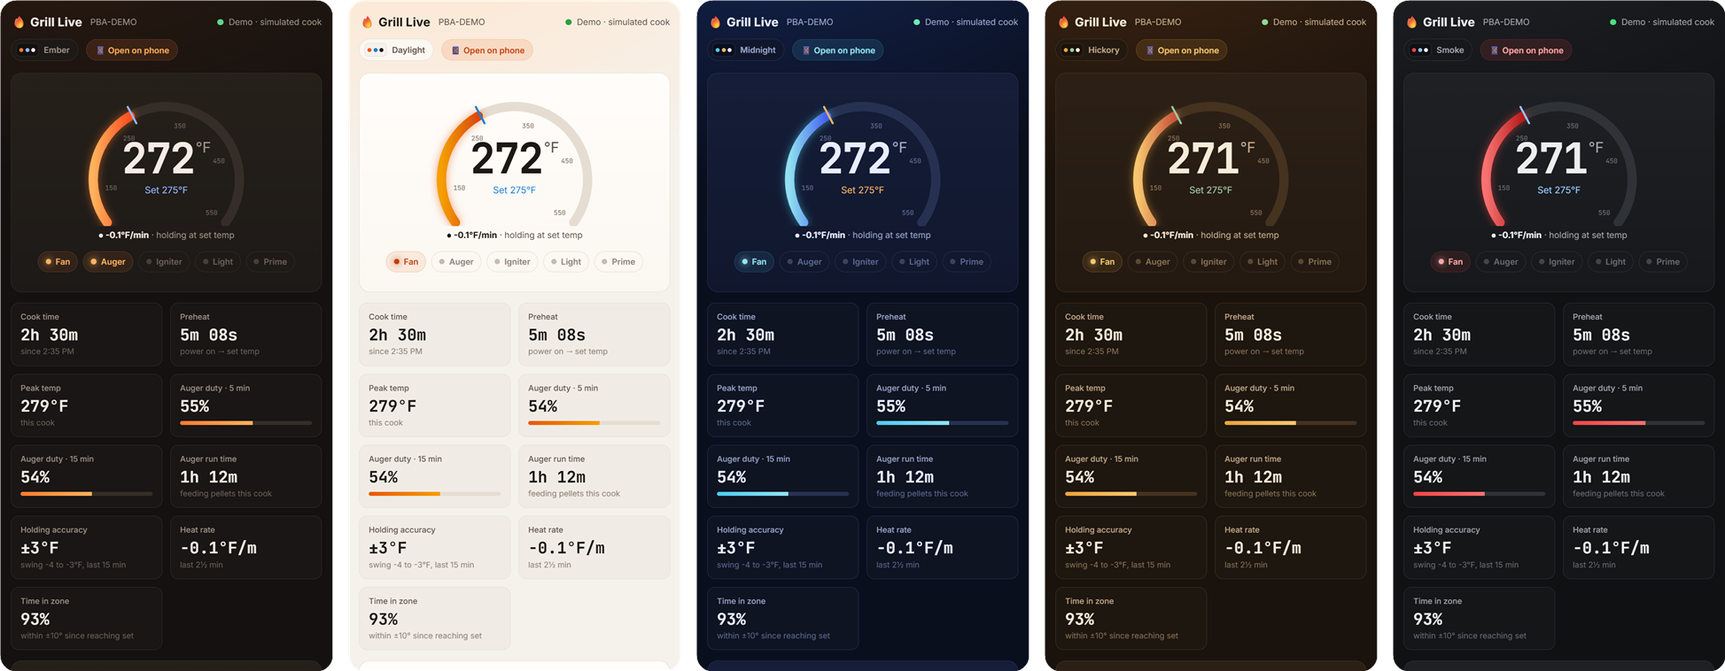
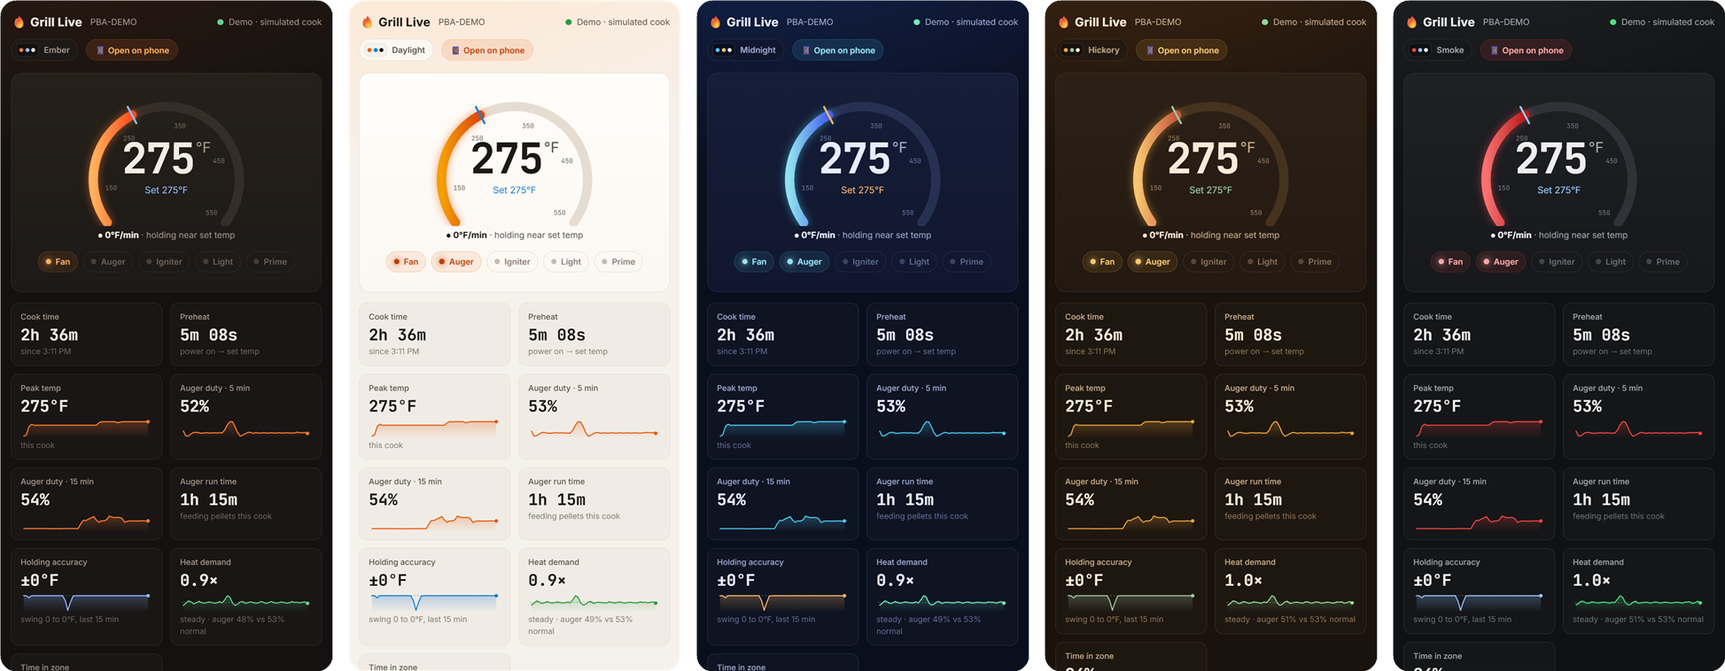
Heat demand, sparklines and an honest temperature reading
- Heat demand card: auger effort against its normal pace at the set temp, so heat
  loss (lid, cold food, wind) shows before the temperature does
- The grill reports exactly its set temp while holding nearby; the gauge now says
  "holding near set temp" and the demo grill behaves the same way
- Sparklines on auger duty, heat demand, holding accuracy, peak temp, burn rate,
  probes, response time and memory; two-line feeding vs cycle on auger rhythm
- README: new features, why the reading sits on the set point, fresh screenshots

diff --git a/index.html b/index.html
@@ -97,6 +97,8 @@ header .sub{color:var(--dim);font-size:13px}
 .tile .h{color:var(--faint);font-size:12px;margin-top:2px}
 .bar{height:6px;background:var(--line);border-radius:4px;margin-top:8px;overflow:hidden}
 .bar>div{height:100%;background:linear-gradient(90deg,var(--ember),var(--ember2));width:0;transition:width .6s}
+.spark{display:block;width:100%;height:28px;margin-top:6px;overflow:visible}
+.probe .spark{height:32px;margin:8px 0 4px}
 .right{display:flex;flex-direction:column;gap:12px}
 .errors{display:none;background:rgba(var(--bad-rgb),.1);border:1px solid var(--bad-line);color:var(--bad-text);border-radius:12px;padding:10px 14px;font-weight:600}
 .chart-card{margin-top:16px}
@@ -185,12 +187,12 @@ header .sub{color:var(--dim);font-size:13px}
       <div class="tiles">
         <div class="tile"><div class="k">Cook time</div><div class="v" id="t-cook">--</div><div class="h" id="t-cook-h">since power on</div></div>
         <div class="tile"><div class="k">Preheat</div><div class="v" id="t-pre">--</div><div class="h" id="t-pre-h">power on → set temp</div></div>
-        <div class="tile"><div class="k">Peak temp</div><div class="v" id="t-peak">--</div><div class="h">this cook</div></div>
-        <div class="tile"><div class="k">Auger duty · 5 min</div><div class="v" id="t-d5">--</div><div class="bar"><div id="b-d5"></div></div></div>
-        <div class="tile"><div class="k">Auger duty · 15 min</div><div class="v" id="t-d15">--</div><div class="bar"><div id="b-d15"></div></div></div>
+        <div class="tile"><div class="k">Peak temp</div><div class="v" id="t-peak">--</div><svg class="spark" id="s-peak"></svg><div class="h">this cook</div></div>
+        <div class="tile"><div class="k">Auger duty · 5 min</div><div class="v" id="t-d5">--</div><svg class="spark" id="s-d5"></svg></div>
+        <div class="tile"><div class="k">Auger duty · 15 min</div><div class="v" id="t-d15">--</div><svg class="spark" id="s-d15"></svg></div>
         <div class="tile"><div class="k">Auger run time</div><div class="v" id="t-aon">--</div><div class="h">feeding pellets this cook</div></div>
-        <div class="tile"><div class="k">Holding accuracy</div><div class="v" id="t-hold">--</div><div class="h" id="t-hold-h">avg off set temp, last 15 min</div></div>
-        <div class="tile"><div class="k">Heat rate</div><div class="v" id="t-rate">--</div><div class="h">last 2½ min</div></div>
+        <div class="tile"><div class="k">Holding accuracy</div><div class="v" id="t-hold">--</div><svg class="spark" id="s-hold"></svg><div class="h" id="t-hold-h">avg off set temp, last 15 min</div></div>
+        <div class="tile"><div class="k">Heat demand</div><div class="v" id="t-dem">--</div><svg class="spark" id="s-dem"></svg><div class="h" id="t-dem-h">learning your grill's normal pace</div></div>
         <div class="tile"><div class="k">Time in zone</div><div class="v" id="t-zone">--</div><div class="h">within ±10° since reaching set</div></div>
       </div>
     </div>
@@ -221,9 +223,9 @@ header .sub{color:var(--dim);font-size:13px}
       <div class="tiles">
         <div class="tile"><div class="k">Hopper left</div><div class="v" id="h-left">--</div><div class="bar"><div id="b-hop"></div></div><div class="h" id="h-left-h">tap Filled hopper</div></div>
         <div class="tile"><div class="k">Runs out in</div><div class="v" id="h-empty">--</div><div class="h" id="h-empty-h">at the current burn</div></div>
-        <div class="tile"><div class="k">Burn rate</div><div class="v" id="p-rate">--</div><div class="h">lb per hour, last 15 min</div></div>
+        <div class="tile"><div class="k">Burn rate</div><div class="v" id="p-rate">--</div><svg class="spark" id="s-rate"></svg><div class="h">lb per hour, last 15 min</div></div>
         <div class="tile"><div class="k">Pellets this cook</div><div class="v" id="p-cook">--</div><div class="h" id="p-cook-h">estimate</div></div>
-        <div class="tile"><div class="k">Auger rhythm</div><div class="v" id="r-rh">--</div><div class="h" id="r-rh-h">feed length / feed every</div></div>
+        <div class="tile"><div class="k">Auger rhythm</div><div class="v" id="r-rh">--</div><svg class="spark" id="s-rh"></svg><div class="h" id="r-rh-h">feed length / feed every</div></div>
         <div class="tile"><div class="k">Lid opens</div><div class="v" id="l-count">--</div><div class="h" id="l-count-h">detected from temp drops</div></div>
       </div>
     </div>
@@ -231,9 +233,9 @@ header .sub{color:var(--dim);font-size:13px}
       <div class="sec-head"><h2>Nerd stats</h2></div>
       <div class="tiles">
         <div class="tile"><div class="k">Wi-Fi signal</div><div class="v"><span id="n-rssi">--</span> <svg id="n-bars" width="22" height="16" viewBox="0 0 22 16"></svg></div><div class="h" id="n-rssi-h">scans every 10 min</div></div>
-        <div class="tile"><div class="k">Response time</div><div class="v" id="n-rtt">--</div><div class="h" id="n-rtt-h">grill → this PC</div></div>
+        <div class="tile"><div class="k">Response time</div><div class="v" id="n-rtt">--</div><svg class="spark" id="s-rtt"></svg><div class="h" id="n-rtt-h">grill → this PC</div></div>
         <div class="tile"><div class="k">Link reliability</div><div class="v" id="n-rel">--</div><div class="h" id="n-rel-h">polls answered</div></div>
-        <div class="tile"><div class="k">Free memory</div><div class="v" id="n-ram">--</div><div class="h" id="n-ram-h">ESP32 RAM</div></div>
+        <div class="tile"><div class="k">Free memory</div><div class="v" id="n-ram">--</div><svg class="spark" id="s-ram"></svg><div class="h" id="n-ram-h">ESP32 RAM</div></div>
         <div class="tile"><div class="k">Readings this cook</div><div class="v" id="n-reads">--</div><div class="h">status refreshes every 4 s</div></div>
         <div class="tile"><div class="k">Module uptime</div><div class="v" id="t-up">--</div><div class="h">Wi-Fi board boots with the grill</div></div>
       </div>
@@ -325,6 +327,106 @@ function drawChart(){
   el.innerHTML = svg;
 }
 
+let IX = null;
+function indexHist(){
+  const n = hist.length;
+  if(IX && IX.n === n) return IX;
+  const T = new Float64Array(n), PA = new Float64Array(n + 1), PS = new Float64Array(n + 1);
+  for(let i = 0; i < n; i++){
+    T[i] = hist[i].t;
+    PA[i + 1] = PA[i] + (hist[i].auger ? 1 : 0);
+    const dt = i + 1 < n ? hist[i + 1].t - hist[i].t : 0;
+    PS[i + 1] = PS[i] + (hist[i].auger && dt < 15 ? dt : 0);
+  }
+  return IX = {n, T, PA, PS};
+}
+function lowerBound(T, t){ let a = 0, b = T.length; while(a < b){ const m = (a + b) >> 1; if(T[m] < t) a = m + 1; else b = m; } return a; }
+function dutyAt(t0, t1){ const i0 = lowerBound(IX.T, t0), i1 = lowerBound(IX.T, t1 + 0.001); return i1 - i0 >= 5 ? (IX.PA[i1] - IX.PA[i0]) / (i1 - i0) : null; }
+function meanAt(t0, t1, f){
+  const i0 = lowerBound(IX.T, t0), i1 = lowerBound(IX.T, t1 + 0.001);
+  let sum = 0, n = 0;
+  for(let i = i0; i < i1; i++){ const v = f(hist[i]); if(v != null){ sum += v; n++; } }
+  return n ? sum / n : null;
+}
+const augerSecondsBy = t => IX.PS[lowerBound(IX.T, t + 0.001)];
+function sampleSeries(span, fn, N = 48){
+  const now = state.now, start = Math.max(now - span, hist[0].t), step = (now - start) / N, out = [];
+  for(let k = 0; k <= N; k++){ const t = start + step * k; out.push([t, fn(t, step)]); }
+  return out;
+}
+function spark(id, pts, o = {}){
+  const el = $(id); if(!el) return;
+  const W = el.clientWidth, H = el.clientHeight, ok = pts.filter(p => p[1] != null);
+  if(!W || !H || ok.length < 2){ el.innerHTML = ''; return; }
+  let lo = o.min ?? Math.min(...ok.map(p => p[1])), hi = o.max ?? Math.max(...ok.map(p => p[1]));
+  if(o.ref != null){ lo = Math.min(lo, o.ref); hi = Math.max(hi, o.ref); }
+  const minSpan = o.minSpan || 1;
+  if(hi - lo < minSpan){ const mid = (hi + lo) / 2; lo = Math.max(o.min ?? -Infinity, mid - minSpan / 2); hi = lo + minSpan; }
+  const t0 = ok[0][0], t1 = ok[ok.length - 1][0];
+  const X = t => 2 + (t - t0) / ((t1 - t0) || 1) * (W - 6), Y = v => 3 + (1 - (v - lo) / (hi - lo)) * (H - 6);
+  let line = '', pen = false;
+  for(const [t, v] of pts){ if(v == null){ pen = false; continue; } line += (pen ? 'L' : 'M') + X(t).toFixed(1) + ' ' + Y(v).toFixed(1); pen = true; }
+  const area = `M${X(t0).toFixed(1)} ${H}` + ok.map(([t, v]) => `L${X(t).toFixed(1)} ${Y(v).toFixed(1)}`).join('') + `L${X(t1).toFixed(1)} ${H}Z`;
+  const col = o.color || C('ember'), last = ok[ok.length - 1], gid = 'g' + id;
+  el.setAttribute('viewBox', `0 0 ${W} ${H}`);
+  el.innerHTML = `<defs><linearGradient id="${gid}" x1="0" y1="0" x2="0" y2="1"><stop offset="0" stop-color="${col}" stop-opacity=".26"/><stop offset="1" stop-color="${col}" stop-opacity="0"/></linearGradient></defs>`
+    + (o.ref != null ? `<line x1="0" x2="${W}" y1="${Y(o.ref).toFixed(1)}" y2="${Y(o.ref).toFixed(1)}" stroke="${C('faint')}" stroke-width="1" stroke-dasharray="2 3"/>` : '')
+    + `<path d="${area}" fill="url(#${gid})"/>`
+    + `<path d="${line}" fill="none" stroke="${col}" stroke-width="1.6" stroke-linejoin="round" stroke-linecap="round"/>`
+    + `<circle cx="${X(last[0]).toFixed(1)}" cy="${Y(last[1]).toFixed(1)}" r="2.6" fill="${col}"/>`;
+}
+
+function feedList(){
+  const list = [];
+  let cur = null;
+  for(let i = 1; i < hist.length; i++){
+    const a = hist[i - 1], b = hist[i];
+    if(b.t - a.t > 15){ cur = null; continue; }
+    if(b.auger && !a.auger){
+      if(cur && cur.len != null){ cur.every = b.t - cur.t; list.push(cur); }
+      cur = {t: b.t, len: null};
+    } else if(a.auger && !b.auger && cur && cur.len == null) cur.len = b.t - cur.t;
+  }
+  return list;
+}
+function sparkLines(id, series, o = {}){
+  const el = $(id); if(!el) return;
+  const W = el.clientWidth, H = el.clientHeight, all = series.flatMap(s => s.pts.filter(p => p[1] != null));
+  if(!W || !H || all.length < 4){ el.innerHTML = ''; return; }
+  const lo = o.min ?? Math.min(...all.map(p => p[1])), hi = Math.max(lo + 1, ...all.map(p => p[1]));
+  const t0 = Math.min(...all.map(p => p[0])), t1 = Math.max(...all.map(p => p[0]));
+  const X = t => 2 + (t - t0) / ((t1 - t0) || 1) * (W - 6), Y = v => 3 + (1 - (v - lo) / (hi - lo)) * (H - 6);
+  el.setAttribute('viewBox', `0 0 ${W} ${H}`);
+  el.innerHTML = series.map(({pts, color}) => {
+    let line = '', pen = false, last = null;
+    for(const [t, v] of pts){ if(v == null){ pen = false; continue; } line += (pen ? 'L' : 'M') + X(t).toFixed(1) + ' ' + Y(v).toFixed(1); pen = true; last = [t, v]; }
+    return line ? `<path d="${line}" fill="none" stroke="${color}" stroke-width="1.6" stroke-linejoin="round" stroke-linecap="round"/><circle cx="${X(last[0]).toFixed(1)}" cy="${Y(last[1]).toFixed(1)}" r="2.6" fill="${color}"/>` : '';
+  }).join('');
+}
+
+function drawSparks(s, d){
+  if(!hist.length || !state) return;
+  indexHist();
+  const now = state.now, lph = d.lbPerAugerHour || 4, cookStart = d.cookStart || hist[0].t;
+  const pct = win => t => { const v = dutyAt(t - win, t); return v == null ? null : v * 100; };
+  spark('s-d5', sampleSeries(3600, pct(300)), {minSpan: 25});
+  spark('s-d15', sampleSeries(7200, pct(900)), {minSpan: 25});
+  const dem = d.demand;
+  if(dem && dem.baseline){
+    const col = {coasting: C('set'), steady: C('ok'), 'working harder': C('ember'), 'losing heat': C('bad')}[dem.level];
+    spark('s-dem', sampleSeries(3600, t => { const v = dutyAt(t - 90, t); return v == null ? null : v * 100 / dem.baseline; }), {ref: 1, min: 0, color: col});
+  } else spark('s-dem', []);
+  spark('s-hold', sampleSeries(3600, (t, step) => meanAt(t - step, t, r => r.grill != null && r.set ? r.grill - r.set : null)), {ref: 0, minSpan: 10, color: C('set')});
+  spark('s-peak', sampleSeries(now - cookStart, (t, step) => meanAt(t - step, t, r => r.grill)), {minSpan: 20});
+  spark('s-rate', sampleSeries(7200, t => { const v = dutyAt(t - 900, t); return v == null ? null : v * lph; }), {min: 0, color: C('ember2')});
+  const fl = feedList(), feedMean = (key, t) => { const xs = fl.filter(f => f.t > t - 300 && f.t <= t).map(f => f[key]); return xs.length >= 3 ? xs.reduce((a, b) => a + b, 0) / xs.length : null; };
+  sparkLines('s-rh', [{pts: sampleSeries(3600, t => feedMean('len', t)), color: C('ember')}, {pts: sampleSeries(3600, t => feedMean('every', t)), color: C('set')}]);
+  for(const k of ['p1', 'p2', 'p3', 'p4']) if(s[k] != null) spark('s-' + k, sampleSeries(3600, (t, step) => meanAt(t - step, t, r => r[k])), {minSpan: 10, color: C(k)});
+  const ser = state.series || {};
+  spark('s-rtt', (ser.rtt || []).map((v, i) => [i, v]), {min: 0, color: C('dim')});
+  spark('s-ram', (ser.ram || []).map(([t, v]) => [t, v / 1024]), {minSpan: 4, color: C('dim')});
+}
+
 function render(){
   if(!state) return;
   const s = state.sample || {}, d = state.derived || {}, u = state.fahrenheit ? '°F' : '°C';
@@ -347,9 +449,11 @@ function render(){
     const arrow = d.heatRate > 0.5 ? '▲' : d.heatRate < -0.5 ? '▼' : '●';
     tr = `<b>${arrow} ${d.heatRate>0?'+':''}${d.heatRate}${u}/min</b>`;
     if(d.etaSet) tr += ` · set temp in ~${dur(d.etaSet)}`;
+    else if(s.grill!=null && s.set && s.grill === s.set) tr += ' · holding near set temp';
     else if(s.grill!=null && s.set && Math.abs(s.grill-s.set)<=8) tr += ' · holding at set temp';
   }
   if(d.lid && d.lid.openNow) tr += ' · <span class="lidnow">lid open?</span>';
+  else if(d.demand && d.demand.level === 'losing heat') tr += ' · <span class="lidnow">losing heat</span>';
   $('trend').innerHTML = tr;
   for(const k of ['fan','auger','igniter','light','prime']) $('c-'+k).classList.toggle('on', !!s[k]);
   const errs = s.errors || [];
@@ -359,12 +463,20 @@ function render(){
   $('t-cook-h').textContent = d.cookStart ? 'since ' + new Date(d.cookStart*1000).toLocaleTimeString([], {hour:'numeric',minute:'2-digit'}) : 'grill off';
   $('t-pre').textContent = d.preheatSeconds!=null ? dur(d.preheatSeconds) : (s.on ? 'heating' : '--');
   $('t-peak').textContent = d.peak!=null ? d.peak + u : '--';
-  for(const [k,v] of [['d5',d.augerDuty5],['d15',d.augerDuty15]]){ $('t-'+k).textContent = v!=null ? v+'%' : '--'; $('b-'+k).style.width = (v||0)+'%'; }
+  for(const [k,v] of [['d5',d.augerDuty5],['d15',d.augerDuty15]]) $('t-'+k).textContent = v!=null ? v+'%' : '--';
   $('t-aon').textContent = d.augerOnSeconds!=null ? dur(d.augerOnSeconds) : '--';
   $('t-hold').textContent = d.holdAvgDev!=null ? '±' + d.holdAvgDev + u : '--';
   const sgn = v => (v > 0 ? '+' : '') + v;
   $('t-hold-h').textContent = d.holdSwing ? `swing ${sgn(d.holdSwing[0])} to ${sgn(d.holdSwing[1])}${u}, last 15 min` : 'starts once set temp is reached';
-  $('t-rate').textContent = d.heatRate!=null ? (d.heatRate>0?'+':'') + d.heatRate + u + '/m' : '--';
+  const dem = d.demand;
+  if(dem && dem.ratio!=null){
+    const col = {coasting: C('set'), steady: C('ok'), 'working harder': C('ember'), 'losing heat': C('bad')}[dem.level];
+    $('t-dem').textContent = dem.ratio.toFixed(1) + '×';
+    $('t-dem-h').textContent = `${dem.level === 'losing heat' ? 'losing heat: lid, cold food or wind' : dem.level} · auger ${dem.duty}% vs ${dem.baseline}% normal`;
+  } else {
+    $('t-dem').textContent = '--';
+    $('t-dem-h').textContent = dem && dem.learning ? `learning normal pace (${dem.minutes}/5 min holding)` : 'starts once the grill holds its set temp';
+  }
   $('t-zone').textContent = d.inZone!=null ? d.inZone + '%' : '--';
   renderExtras(s, d, u);
   const pr = d.probes || {};
@@ -374,8 +486,9 @@ function render(){
     let h = tgt ? `target ${tgt}${u}` : 'no target';
     if(info.rate!=null) h += ` · ${info.rate>0?'+':''}${info.rate}${u}/min`;
     if(info.eta) h += ` · done in ~${dur(info.eta)}`;
-    return `<div class="card probe" style="border-left-color:${PROBE_COLORS[k]}"><div style="color:var(--dim);font-size:12px">Probe ${i+1}</div><div class="v">${v}${u}</div><div style="color:var(--faint);font-size:12px">${h}</div></div>`;
+    return `<div class="card probe" style="border-left-color:${PROBE_COLORS[k]}"><div style="color:var(--dim);font-size:12px">Probe ${i+1}</div><div class="v">${v}${u}</div><svg class="spark" id="s-${k}"></svg><div style="color:var(--faint);font-size:12px">${h}</div></div>`;
   }).join('');
+  drawSparks(s, d);
   drawChart();
 }
 
@@ -395,8 +508,8 @@ function renderExtras(s, d, u){
   $('p-cook').textContent = d.pelletsCook!=null ? '≈' + d.pelletsCook + ' lb' : '--';
   $('p-cook-h').textContent = `estimate · ${d.lbPerAugerHour} lb per auger-hour`;
   const rh = d.rhythm;
-  $('r-rh').textContent = rh ? `${Math.round(rh.on)}s / ${Math.round(rh.every)}s` : '--';
-  $('r-rh-h').textContent = rh ? `${rh.perMin} feeds/min · ${rh.count} in 15 min` : 'feed length / feed every';
+  $('r-rh').innerHTML = rh ? `<span style="color:var(--ember)">${Math.round(rh.on)}s</span> / <span style="color:var(--set)">${Math.round(rh.every)}s</span>` : '--';
+  $('r-rh-h').innerHTML = rh ? `<span style="color:var(--ember)">feeding</span> vs <span style="color:var(--set)">full cycle</span> · ${rh.perMin} feeds/min` : 'feeding time vs full cycle';
   const lid = d.lid;
   $('l-count').textContent = lid ? lid.count : '--';
   $('l-count-h').textContent = lid && lid.last ? `last: −${lid.last.drop}${u}, back in ${dur(lid.last.recovery)}` : 'detected from temp drops';

diff --git a/server.py b/server.py
@@ -72,6 +72,7 @@ lock = threading.Lock()
 samples = []
 latest = {"sample": None, "info": None, "error": None, "fahrenheit": True, "lastOk": 0, "raw": None}
 link = {"ok": 0, "fail": 0, "rtt": collections.deque(maxlen=150)}
+ram_hist = collections.deque(maxlen=240)
 wifi = {"rssi": None, "bssid": None, "channel": None, "name": None, "seen": None, "at": None}
 settings = {"lbPerAugerHour": 4.0, "augerTotal": 0.0, "hopper": None, "cookBoot": None,
             "grill": None, "apNames": {}}
@@ -265,6 +266,8 @@ def read_info(grill, now):
                                                    "ram_min_free", "ram_size", "arch")}
         latest["info"].update(id=info.get("id"), ssid=(info.get("wifi") or {}).get("ssid"), board=board_id,
                               tested=board_id in TESTED_BOARDS, known=board_id in BOARDS)
+        if info.get("ram_free") is not None:
+            ram_hist.append((round(now), info["ram_free"]))
         try:
             latest["info"]["pbFirmware"] = rpc(grill, "PB.GetFirmwareVersion").get("firmwareVersion")
         except Exception:
@@ -349,6 +352,12 @@ class SimGrill:
     def setpoint(self, t):
         return 275 if t >= self.events["bump"] else 225
 
+    @staticmethod
+    def shown(g, set_):
+        # like the real controller: it reads exactly the set temp while holding near it
+        g = int(round(g))
+        return set_ if set_ - 4 <= g <= set_ + 12 else max(0, g)
+
     def step_to(self, t):
         while self.t < t:
             dt = min(2.0, t - self.t)
@@ -372,7 +381,7 @@ class SimGrill:
         if method == "PB.GetState":
             time.sleep(random.uniform(0.3, 0.6))  # the real module takes about this long to answer
             self.step_to(now)
-            g = int(round(self.g + random.uniform(-0.6, 0.6)))
+            g = self.shown(self.g + random.uniform(-0.6, 0.6), self.setpoint(self.t))
             vals = {"on": True, "fan": True, "auger": self.auger, "igniter": self.igniter,
                     "grill": max(0, g), "set": self.setpoint(self.t), "p1": int(self.p1) if self.t - self.start > 1200 else None,
                     "p1Target": 203}
@@ -401,7 +410,7 @@ def start_demo():
     last, prev, t = {}, None, sim.start
     while t < now - 2:
         sim.step_to(t)
-        vals = {"on": True, "fan": True, "auger": sim.auger, "igniter": sim.igniter, "grill": int(round(sim.g)),
+        vals = {"on": True, "fan": True, "auger": sim.auger, "igniter": sim.igniter, "grill": sim.shown(sim.g, sim.setpoint(t)),
                 "set": sim.setpoint(t), "p1": int(sim.p1) if t - sim.start > 1200 else None, "p1Target": 203}
         prev = ingest(decode(encode(vals, _A), _A), t, last, prev)
         t += 2
@@ -469,6 +478,41 @@ def lid_events(cook):
     return events, ev
 
 
+def heat_demand(cook, now):
+    """How hard the auger is working now compared with its usual rate at this set temp.
+
+    The grill reports exactly its set temp while it holds nearby, so the reading alone hides
+    small swings; the controller still feeds pellets off the real temperature. The usual rate
+    is the median auger duty over minutes this cook spent reading exactly the set temp."""
+    cur = cook[-1] if cook else {}
+    s = cur.get("set")
+    if not s or not cur.get("on"):
+        return None
+    same = []
+    for r in reversed(cook):
+        if r.get("set") != s or r["t"] < now - 3600:
+            break
+        same.append(r)
+    same.reverse()
+    buckets = {}
+    for r in same:
+        if r["t"] < now - 90:
+            buckets.setdefault(int((r["t"] - same[0]["t"]) // 60), []).append(r)
+    minutes = [sum(1 for r in b if r.get("auger")) / len(b) for b in buckets.values()
+               if len(b) >= 10 and all(r.get("grill") == s for r in b)]
+    recent = [r for r in same if r["t"] >= now - 90]
+    if len(minutes) < 5 or len(recent) < 10:
+        return {"learning": True, "minutes": len(minutes)}
+    base = statistics.median(minutes)
+    if base <= 0:
+        return None
+    duty = sum(1 for r in recent if r.get("auger")) / len(recent)
+    ratio = duty / base
+    level = ("coasting" if ratio < 0.75 else "steady" if ratio < 1.2 else
+             "working harder" if ratio < 1.45 else "losing heat")
+    return {"ratio": round(ratio, 2), "duty": round(duty * 100), "baseline": round(base * 100), "level": level}
+
+
 def derived():
     now = time.time()
     rows = samples
@@ -526,6 +570,7 @@ def derived():
                       "avgRecovery": round(statistics.fmean(e["recovery"] for e in events)) if events else None,
                       "openNow": open_now is not None}
 
+    out["demand"] = heat_demand(cook, now)
     out["rhythm"] = auger_rhythm(win(900))
     lph = settings["lbPerAugerHour"]
     if out.get("augerOnSeconds") is not None:
@@ -583,7 +628,8 @@ class Handler(BaseHTTPRequestHandler):
         if path == "/api/state":
             with lock:
                 body = {k: v for k, v in latest.items() if k != "raw"}
-                body.update(now=time.time(), demo=cfg["demo"], phoneUrl=cfg["phoneUrl"], derived=derived())
+                body.update(now=time.time(), demo=cfg["demo"], phoneUrl=cfg["phoneUrl"], derived=derived(),
+                            series={"rtt": [round(x) for x in link["rtt"]], "ram": list(ram_hist)})
             return self.send(200, json.dumps(body), "application/json")
         if path == "/phone.svg" and cfg["phoneUrl"]:
             return self.send(200, qr.to_svg(cfg["phoneUrl"]), "image/svg+xml")

diff --git a/tests/test_decode.py b/tests/test_decode.py
@@ -56,6 +56,39 @@ class StatsTest(unittest.TestCase):
         self.assertIsNone(open_now)
 
 
+class HeatDemandTest(unittest.TestCase):
+    @staticmethod
+    def cook(minutes, recent_duty, set_=350):
+        rows, t = [], 0.0
+        for m in range(minutes):  # holding at the set temp, auger on 2 of every 5 polls (40%)
+            for i in range(30):
+                rows.append({"t": t, "on": True, "set": set_, "grill": set_, "auger": i % 5 < 2})
+                t += 2
+        for i in range(45):  # last 90 s at the given duty
+            rows.append({"t": t, "on": True, "set": set_, "grill": set_, "auger": (i % 20) < recent_duty * 20})
+            t += 2
+        return rows, t
+
+    def test_losing_heat_while_reading_is_pinned(self):
+        rows, now = self.cook(10, 0.6)
+        d = server.heat_demand(rows, now)
+        self.assertEqual(d["baseline"], 40)
+        self.assertEqual(d["level"], "losing heat")
+
+    def test_steady_and_learning(self):
+        rows, now = self.cook(10, 0.4)
+        self.assertEqual(server.heat_demand(rows, now)["level"], "steady")
+        rows, now = self.cook(3, 0.6)
+        self.assertTrue(server.heat_demand(rows, now)["learning"])
+
+    def test_new_set_temp_starts_over(self):
+        rows, now = self.cook(10, 0.4)
+        later, now2 = self.cook(2, 0.4, set_=225)
+        for r in later:
+            r["t"] += now
+        self.assertTrue(server.heat_demand(rows + later, now + now2)["learning"])
+
+
 try:
     import cv2
     import numpy

diff --git a/README.md b/README.md
@@ -14,7 +14,9 @@
 - **Chart:** grill, set and probe temps over 15 min, 1 h, 4 h or the whole cook, with a strip marking every pellet feed
 - **Cook stats:** cook time, preheat time, peak temp, holding accuracy (±°F and swing) and time in zone (within ±10° of set)
 - **Pellets:** burn rate, pounds burned this cook and a **hopper countdown** that says when you'll run out
-- **Auger rhythm:** how long each feed lasts and how often it comes, plus duty over the last 5 and 15 minutes
+- **Heat demand:** how hard the auger is working compared with its normal pace at your set temp. It catches heat loss from an open lid, cold food or wind before the temperature shows it
+- **Auger rhythm:** how long each feed lasts against the full feed cycle, plus duty over the last 5 and 15 minutes
+- **Sparklines:** small trend lines on the main cards, so you can see where each number has been, not just where it is
 - **Lid-open detection:** each sudden drop at a steady set temp, how far it fell and how long it took to recover
 - **Nerd stats:** the grill's Wi-Fi signal (dBm) and which access point it's on, response time, link reliability and ESP32 free memory
 - **Themes:** Ember, Daylight (high contrast for bright sun), Midnight, Hickory and Smoke, or match your phone's light or dark mode. Each phone remembers its own pick
@@ -88,6 +90,8 @@ The Wi-Fi board in these grills is an ESP32 running Mongoose OS. It sits on a se
 - `PBL.StartWifiScan` runs every 10 minutes, for signal strength.
 
 It never sends commands to the grill. It answers in roughly 0.4 to 2 seconds per request, because the firmware builds every reply in a small built-in script interpreter.
+
+**Why the temperature sits on the set point:** while the grill is holding near its set temperature, the controller reports exactly the set temperature. Small swings, and the first part of a lid opening, never show up in the reading. The controller still feeds pellets based on the real temperature, so Heat demand watches the auger instead. Bigger swings do show in the temperature.
 
 **Go easy on it.** The ESP32 has very little memory. Aggressive port scans or rapid-fire requests can reboot the Wi-Fi board. The grill keeps cooking, but the app loses its connection while it restarts.
 
